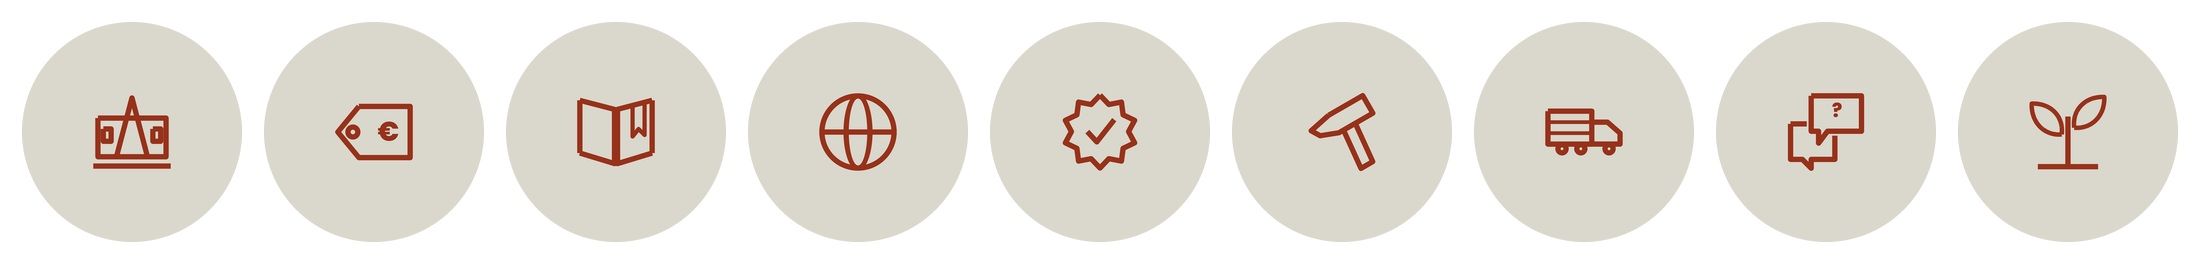
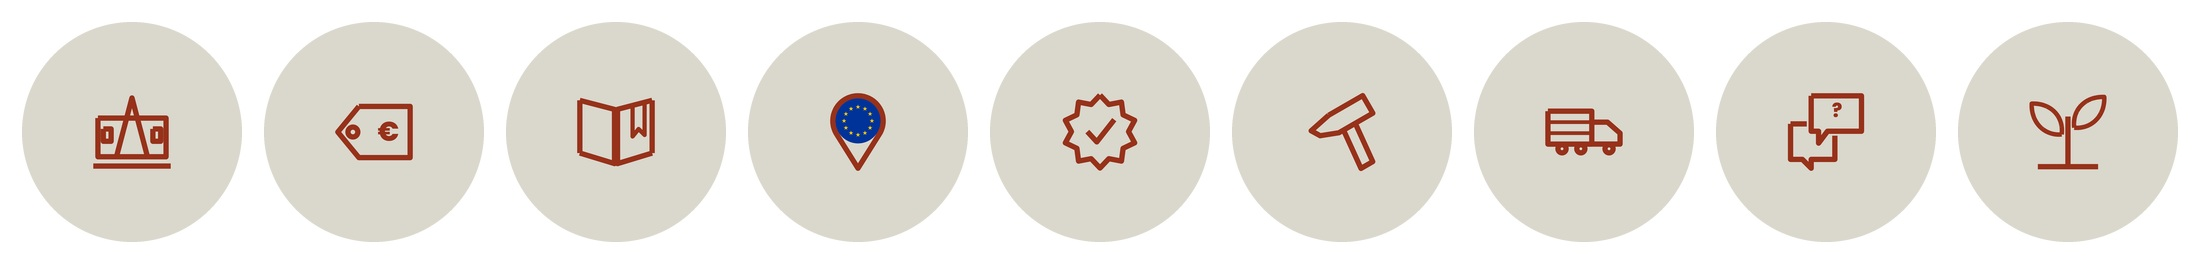
social: the European flag, in the pin, on the EUROPE cover
The globe was accurate and said nothing. A circle with a meridian and an equator
means the world; this highlight is one continent and five named markets in it,
and no arrangement of two brand colours names a place. The flag does.

Stars were tried once before, on the brand ground, and failed — a ring of small
marks with nothing behind it read as a berry at 44 px. The field is what fixes
it: a dark blue disc with a gold ring inside survives being 5 px across, because
by then it is not being read as twelve stars, it is being read as the flag, which
is how the flag is read at every small size it appears at. Checked at 161 px, the
size a phone actually draws a highlight, where the twelve are still separate.

Geometry is the flag's own — star circle at a fixed fraction of the field, each
star inscribed in a sixth of that radius, inner vertices at sin(18)/sin(126) —
and the teardrop is built from its real tangent points rather than a guessed pair
of coordinates, so the straight sides meet the head instead of crossing it.

This is the first cover carrying colours the palette does not own, so cover() now
takes an `art` icon drawn straight into RGBA instead of as a tinted mask, and
check() measures the field against both grounds and the stars against the field
rather than assuming a flag is legible because it is a flag.

Noted and not resolved: Switzerland is one of the five markets and is not in the
EU. The mark carries no EU wording and sits under a highlight named EUROPE, so it
[…]

Changed region(s): [[0.3709, 0.3636, 0.4327, 0.6667]]

diff --git a/tools/social/build_highlight_covers.py b/tools/social/build_highlight_covers.py
@@ -151,25 +151,68 @@ def icon_book(d, x, y, s, c, w):
               (x + s * 0.88, y + s * 0.18)], c, round(w * 0.8))
 
 
-def icon_pin(d, x, y, s, c, w):
-    """A globe, not a pin.
+EU_BLUE = (0, 51, 153)          # Pantone Reflex Blue, the flag's field
+EU_GOLD = (255, 204, 0)         # Pantone Yellow, the stars
 
-    A pin means one place and this highlight is five countries, so the pin was
-    wrong before it was drawn badly. Filling its head with a ring of stars made it
-    worse: at 380 px the stars were dots, at 44 px a berry.
 
-    Three strokes, and the third is the one that was missing. The previous globe
-    had two latitude lines and no equator, and both latitudes were drawn as chords
-    from 0.09 to 0.91 — but a circle at that height is 0.974 wide, so each line
-    stopped short of the outline at both ends and floated inside it. Four strokes,
-    two of them not touching anything. The equator is the one line that can run the
-    full diameter and meet the circle exactly, so it is the one that stays; the
-    wide meridian is narrowed to 0.32-0.68 so the pair no longer closes into an eye.
+def _star(d, cx, cy, r, colour):
+    """One five-pointed star, point up, inscribed in radius r.
+
+    The inner radius is not a taste decision: a regular pentagram's inner vertices
+    sit at sin(18)/sin(126) of the outer, which is 0.382. Anything fatter is a
+    cartoon star and anything thinner is a splat, and the flag's star is the
+    regular one.
     """
-    m = s * 0.02
-    d.ellipse([x + m, y + m, x + s - m, y + s - m], outline=c, width=w)
-    d.ellipse([x + s * 0.32, y + m, x + s * 0.68, y + s - m], outline=c, width=w)
-    _line(d, [(x + m, y + s * 0.50), (x + s - m, y + s * 0.50)], c, w)
+    import math
+    pts = []
+    for i in range(10):
+        a = math.radians(-90 + i * 36)
+        rr = r if i % 2 == 0 else r * 0.382
+        pts.append((cx + rr * math.cos(a), cy + rr * math.sin(a)))
+    d.polygon(pts, fill=colour)
+
+
+def icon_pin(d, x, y, s, c, w):
+    """A map marker with the European flag set into its head.
+
+    This started as a pin, became a globe, and is a pin again by instruction. The
+    globe was accurate and said nothing: a circle with a meridian and an equator
+    means the world, and this highlight is one continent and five specific markets
+    in it. The flag names the place the way nothing drawn in two brand colours can.
+
+    Stars in the head were tried once before, on the brand ground, and failed —
+    at 44 px a ring of small marks with nothing behind it read as a berry. The
+    field is what fixes that. A dark blue disc with a gold ring inside it survives
+    being 5 px across, because by then it is no longer being read as twelve stars;
+    it is being read as the flag, which is how the flag is read at every small
+    size it appears at.
+
+    Geometry is the flag's own: the star circle's radius is a fixed fraction of
+    the field, and each star is inscribed in a circle one sixth of that radius.
+
+    One caveat, recorded rather than resolved: Switzerland is one of the five
+    markets and is not in the EU, so this mark is a geographic sign for Europe and
+    not a claim about membership. It carries no EU wording and sits under a
+    highlight named EUROPE, which is the use the emblem's guidance allows.
+    """
+    import math
+    cx, cy, r = x + s * 0.50, y + s * 0.35, s * 0.34
+    rd = r - w / 2                          # the field stops at the inside of the stroke
+    d.ellipse([cx - rd, cy - rd, cx + rd, cy + rd], fill=EU_BLUE)
+    ring = rd * 0.62
+    for i in range(12):
+        a = math.radians(i * 30 - 90)
+        _star(d, cx + ring * math.cos(a), cy + ring * math.sin(a), ring / 6, EU_GOLD)
+
+    # The teardrop: the head's arc, then the two tangents down to the point. Drawn
+    # from the tangent points rather than from a guessed pair of coordinates, so
+    # the straight sides meet the circle instead of crossing it or stopping short.
+    apex_y = y + s * 0.99
+    al = math.degrees(math.acos(r / (apex_y - cy)))
+    pts = [(cx + r * math.cos(math.radians(90 + al + k * (360 - 2 * al) / 96)),
+            cy + r * math.sin(math.radians(90 + al + k * (360 - 2 * al) / 96)))
+           for k in range(97)]
+    _line(d, pts + [(cx, apex_y), pts[0]], c, w)
 
 
 def icon_gear(d, x, y, s, c, w):
@@ -297,7 +340,7 @@ COVERS = [
     dict(slug="guides", label="GUIDES", icon=icon_book, glyph=None,
          ground=g.MOSS, ink=g.CREAM, link="modunera.com/en/guides/",
          note="Permits, delivery and comparison"),
-    dict(slug="europe", label="EUROPE", icon=icon_pin, glyph=None,
+    dict(slug="europe", label="EUROPE", icon=icon_pin, glyph=None, art=True,
          ground=g.CREAM, ink=g.MOSS_DEEP, link="modunera.com/en/countries/",
          note="Germany, Netherlands, Denmark, Luxembourg, Switzerland"),
     dict(slug="quality", label="QUALITY", icon=icon_gear, glyph=None,
@@ -326,16 +369,27 @@ BRAND_GROUND, BRAND_INK = g.CREAM, g.ROOF
 TARGET = 380 * SS               # the longest side of every icon's ink, normalised
 
 
-def _draw_alone(spec, s: float, stroke: int) -> Image.Image:
-    """One icon on its own transparent layer, so its ink can be measured."""
+def _draw_alone(spec, s: float, stroke: int, colour=None) -> Image.Image:
+    """One icon on its own transparent layer, so its ink can be measured.
+
+    Eight of the nine are one colour, so they are drawn as a coverage mask and
+    tinted afterwards — which is what lets the same drawing serve both sets. The
+    flag cannot be: its blue and its gold are the flag, not a treatment, so an
+    `art` icon is drawn straight into RGBA with its outline colour handed in.
+    """
     pad = int(s * 0.6)
-    layer = Image.new("LA", (int(s + pad * 2), int(s + pad * 2)), (0, 0))
+    size = (int(s + pad * 2),) * 2
+    if spec.get("art"):
+        layer = Image.new("RGBA", size, (0, 0, 0, 0))
+        c = tuple(colour or spec["ink"]) + (255,)
+    else:
+        layer = Image.new("LA", size, (0, 0))
+        c = (255, 255)
     d = ImageDraw.Draw(layer)
     if spec.get("glyph"):
-        spec["icon"](d, pad, pad, s, (255, 255), stroke,
-                     font=g.F_TITLE(int(s * spec["glyph"])))
+        spec["icon"](d, pad, pad, s, c, stroke, font=g.F_TITLE(int(s * spec["glyph"])))
     else:
-        spec["icon"](d, pad, pad, s, (255, 255), stroke)
+        spec["icon"](d, pad, pad, s, c, stroke)
     return layer
 
 
@@ -354,20 +408,19 @@ def cover(spec: dict, brand: bool = False) -> Image.Image:
     scaling the finished artwork would have made the thin icons thin-lined too.
     Then the measured ink, not the box, is centred.
     """
+    colour = BRAND_INK if brand else spec["ink"]
     stroke = STROKE * SS
     s = SAFE_D * SS * 0.62
-    box = _draw_alone(spec, s, stroke).getbbox()
+    box = _draw_alone(spec, s, stroke, colour).getbbox()
     s *= TARGET / max(box[2] - box[0], box[3] - box[1])
 
-    layer = _draw_alone(spec, s, stroke)
-    box = layer.getbbox()
-    ink = layer.crop(box)
+    layer = _draw_alone(spec, s, stroke, colour)
+    ink = layer.crop(layer.getbbox())
 
-    ground = BRAND_GROUND if brand else spec["ground"]
-    big = Image.new("RGB", (W * SS, H * SS), ground)
-    tint = Image.new("RGB", ink.size, BRAND_INK if brand else spec["ink"])
-    big.paste(tint, (CENTRE[0] * SS - ink.width // 2,
-                     CENTRE[1] * SS - ink.height // 2), ink.getchannel("A"))
+    big = Image.new("RGB", (W * SS, H * SS), BRAND_GROUND if brand else spec["ground"])
+    art = ink.convert("RGB") if spec.get("art") else Image.new("RGB", ink.size, colour)
+    big.paste(art, (CENTRE[0] * SS - ink.width // 2,
+                    CENTRE[1] * SS - ink.height // 2), ink.getchannel("A"))
     return big.resize((W, H), Image.LANCZOS)
 
 
@@ -389,6 +442,17 @@ def check() -> list[str]:
             problems.append(f"{c['slug']}: icon on ground is {r:.2f}:1, needs 3.0")
         if i and COVERS[i - 1]["ground"] == c["ground"]:
             problems.append(f"{c['slug']}: same ground as {COVERS[i-1]['slug']} beside it")
+        if c.get("art"):
+            # The flag brings two colours the palette does not own, so both are
+            # measured rather than assumed: the field against every ground it can
+            # land on, and the stars against the field.
+            for name, ground in (("varied", c["ground"]), ("brand", BRAND_GROUND)):
+                r = g.contrast(EU_BLUE, ground)
+                if r < 3.0:
+                    problems.append(f"{c['slug']}: field on the {name} ground is {r:.2f}:1")
+            r = g.contrast(EU_GOLD, EU_BLUE)
+            if r < 3.0:
+                problems.append(f"{c['slug']}: stars on the field are {r:.2f}:1")
     if len({tuple(c["ground"]) for c in COVERS}) < 5:
         problems.append("fewer than five distinct grounds across the row")
     return problems
